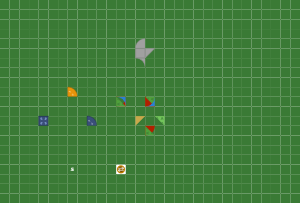
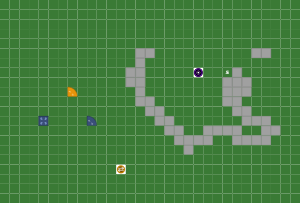
feat(physics): black hole tile — pulls nearby balls toward it on activation
One activation per player turn; dormant state with gray overlay until
next turn. Faint dashed radius ring drawn in-game. Debug panel exposes
impulse factor and radius sliders.

diff --git a/public/js/physics.js b/public/js/physics.js
@@ -168,6 +168,7 @@ const Physics = (function () {
     TELEPORTER_B: "|", // teleporter pair 2 (cyan)
     TELEPORTER_C: "/", // teleporter pair 3 (gold)
     SWAP: "?", // ball swaps position with a random opponent's ball and stops
+    BLACKHOLE: "Ū", // pulls nearby balls toward it on activation; one use per turn
     // One-way walls — diagonal (complement GHOST_R/L/U/D for 8-direction coverage)
     PHANTOM_UR: "-", // passes if ball moves up-right (vx>0 && vy<0)
     PHANTOM_UL: "!", // passes if ball moves up-left
@@ -183,6 +184,8 @@ const Physics = (function () {
   let BALL_FRICTION = 0.3; // ball-to-ball tangential friction (Coulomb μ)
   let BOUNCY_RESTITUTION = 1.5;
   let STICKY_RESTITUTION = 0.1;
+  let BH_IMPULSE_FACTOR = 0.75;
+  let BH_RADIUS_TILES = 10;
 
   const SAND_SET = new Set([
     TILE.SAND, TILE.SAND_UR, TILE.SAND_LL, TILE.SAND_UL, TILE.SAND_LR,
@@ -308,6 +311,7 @@ const Physics = (function () {
       startY = null;
     const holes = [];
     const tpByType = {};
+    const blackHoleTiles = [];
     const TP_CHARS = new Set([
       TILE.TELEPORTER,
       TILE.TELEPORTER_B,
@@ -334,6 +338,8 @@ const Physics = (function () {
             y: row * TILE_SIZE + TILE_SIZE / 2,
           };
           (tpByType[ch] = tpByType[ch] || []).push(tp);
+        } else if (ch === TILE.BLACKHOLE) {
+          blackHoleTiles.push({ col, row, dormant: false });
         }
       }
     }
@@ -357,6 +363,7 @@ const Physics = (function () {
       startY,
       holes,
       teleporterPairs,
+      blackHoleTiles,
     };
   }
 
@@ -376,6 +383,7 @@ const Physics = (function () {
       _tpOccupied: new Set(),
       _tpExitTile: null,
       _wasOnSwap: false,
+      _wasOnBlackHole: false,
     };
   }
 
@@ -1251,6 +1259,38 @@ const Physics = (function () {
     return false;
   }
 
+  // ── Black hole detection & impulse ───────────────────────────────────────
+
+  function checkBlackHole(ball, blackHoleTiles) {
+    const r2 = (TILE_SIZE / 2) ** 2;
+    for (const bh of blackHoleTiles) {
+      const cx = bh.col * TILE_SIZE + TILE_SIZE / 2;
+      const cy = bh.row * TILE_SIZE + TILE_SIZE / 2;
+      if ((ball.x - cx) ** 2 + (ball.y - cy) ** 2 < r2) return true;
+    }
+    return false;
+  }
+
+  function getActiveBlackHole(ball, blackHoleTiles) {
+    const r2 = (TILE_SIZE / 2) ** 2;
+    for (const bh of blackHoleTiles) {
+      if (bh.dormant) continue;
+      const cx = bh.col * TILE_SIZE + TILE_SIZE / 2;
+      const cy = bh.row * TILE_SIZE + TILE_SIZE / 2;
+      if ((ball.x - cx) ** 2 + (ball.y - cy) ** 2 < r2) return bh;
+    }
+    return null;
+  }
+
+  function applyBlackHoleImpulse(ball, bhX, bhY) {
+    const dx = bhX - ball.x, dy = bhY - ball.y;
+    const dist = Math.sqrt(dx * dx + dy * dy);
+    if (dist < 1) return;
+    const v = BH_IMPULSE_FACTOR * dist * (1 - FRICTION);
+    ball.vx += (dx / dist) * v;
+    ball.vy += (dy / dist) * v;
+  }
+
   // ── Tile helpers ──────────────────────────────────────────────────────────
 
   function getTile(tiles, col, row) {
@@ -1426,6 +1466,18 @@ const Physics = (function () {
     set HOLE_GRAVITY_FORCE(v) {
       HOLE_GRAVITY_FORCE = v;
     },
+    get BH_IMPULSE_FACTOR() {
+      return BH_IMPULSE_FACTOR;
+    },
+    set BH_IMPULSE_FACTOR(v) {
+      BH_IMPULSE_FACTOR = v;
+    },
+    get BH_RADIUS_TILES() {
+      return BH_RADIUS_TILES;
+    },
+    set BH_RADIUS_TILES(v) {
+      BH_RADIUS_TILES = v;
+    },
     TILE_SIZE,
     POWER_EXP,
     TILE,
@@ -1454,6 +1506,9 @@ const Physics = (function () {
     isOnTeleporter,
     checkTeleporter,
     checkSwap,
+    checkBlackHole,
+    getActiveBlackHole,
+    applyBlackHoleImpulse,
     getTile,
     tileAt,
     getSurfaceAt,

diff --git a/public/js/main.js b/public/js/main.js
@@ -54,6 +54,8 @@
       { id: 'sl-sticky',    val: 'val-sticky',    prop: 'STICKY_RESTITUTION', fmt: v => v.toFixed(2) },
       { id: 'sl-slope',     val: 'val-slope',     prop: 'SLOPE_FORCE',        fmt: v => v.toFixed(3) },
       { id: 'sl-slope-rf',  val: 'val-slope-rf',  prop: 'SLOPE_ROLL_FRICTION',fmt: v => v.toFixed(4) },
+      { id: 'sl-bh-impulse',val: 'val-bh-impulse',prop: 'BH_IMPULSE_FACTOR',  fmt: v => v.toFixed(2) },
+      { id: 'sl-bh-radius', val: 'val-bh-radius', prop: 'BH_RADIUS_TILES',    fmt: v => v.toFixed(0) },
     ];
     sliders.forEach(({ id, val, prop, fmt }) => {
       const input = document.getElementById(id);
@@ -305,6 +307,7 @@
       if (!game) return;
       waitingForTurnSwitch = false;
       game.map.teleporterPairs.forEach(pair => { pair.uses = 0; });
+      game.map.blackHoleTiles.forEach(bh => { bh.dormant = false; });
       game.currentPlayerIndex = currentPlayerIndex;
       game.players[currentPlayerIndex].started = true;
       game.turnActive = false;
@@ -547,6 +550,22 @@ document.addEventListener('mousemove', onMouseMove);
         }
       }
 
+      // Black hole — pull nearby opponents toward it; one activation per turn
+      if (!turnEnded && !ball._wasOnBlackHole) {
+        const bh = Physics.getActiveBlackHole(ball, game.map.blackHoleTiles);
+        if (bh) {
+          bh.dormant = true;
+          const bhX = bh.col * Physics.TILE_SIZE + Physics.TILE_SIZE / 2;
+          const bhY = bh.row * Physics.TILE_SIZE + Physics.TILE_SIZE / 2;
+          const pullR2 = (Physics.TILE_SIZE * Physics.BH_RADIUS_TILES) ** 2;
+          game.players.forEach((p, i) => {
+            if (i === game.currentPlayerIndex || p.sunk || p.eliminated) return;
+            const dx = bhX - p.ball.x, dy = bhY - p.ball.y;
+            if (dx * dx + dy * dy <= pullR2) Physics.applyBlackHoleImpulse(p.ball, bhX, bhY);
+          });
+        }
+      }
+
       // Hole — sink ball
       if (!turnEnded) {
         const hole = Physics.checkHole(ball, game.map.holes);
@@ -589,6 +608,21 @@ document.addEventListener('mousemove', onMouseMove);
           target.ball.vx = p.ball.vx; target.ball.vy = p.ball.vy;
           target.ball._wasOnSwap = true;
           p.ball.vx = 0; p.ball.vy = 0;
+          nonCurStateChanged = true;
+        }
+      }
+      if (Physics.isMoving(p.ball) && !p.ball._wasOnBlackHole) {
+        const bh2 = Physics.getActiveBlackHole(p.ball, game.map.blackHoleTiles);
+        if (bh2) {
+          bh2.dormant = true;
+          const bhX = bh2.col * Physics.TILE_SIZE + Physics.TILE_SIZE / 2;
+          const bhY = bh2.row * Physics.TILE_SIZE + Physics.TILE_SIZE / 2;
+          const pullR2 = (Physics.TILE_SIZE * Physics.BH_RADIUS_TILES) ** 2;
+          game.players.forEach((tp, ti) => {
+            if (ti === i || tp.sunk || tp.eliminated) return;
+            const dx = bhX - tp.ball.x, dy = bhY - tp.ball.y;
+            if (dx * dx + dy * dy <= pullR2) Physics.applyBlackHoleImpulse(tp.ball, bhX, bhY);
+          });
           nonCurStateChanged = true;
         }
       }
@@ -650,6 +684,7 @@ document.addEventListener('mousemove', onMouseMove);
       if (!p.sunk && !p.eliminated) {
         p.ball._tpOccupied = Physics.isOnTeleporter(p.ball, game.map.ground);
         p.ball._wasOnSwap = Physics.checkSwap(p.ball, game.map.ground);
+        p.ball._wasOnBlackHole = Physics.checkBlackHole(p.ball, game.map.blackHoleTiles);
         if (p.ball._tpExitTile) {
           const [ec, er] = p.ball._tpExitTile.split(',').map(Number);
           if (Math.floor(p.ball.x / Physics.TILE_SIZE) !== ec ||

diff --git a/public/js/renderer.js b/public/js/renderer.js
@@ -196,6 +196,26 @@ const Renderer = (function () {
         }
       }
     }
+    if (map.blackHoleTiles) {
+      ctx.fillStyle = "rgba(80,80,80,0.65)";
+      for (const bh of map.blackHoleTiles) {
+        if (!bh.dormant) continue;
+        ctx.beginPath();
+        ctx.arc(bh.col * T + T / 2, bh.row * T + T / 2, T / 2 - 1, 0, Math.PI * 2);
+        ctx.fill();
+      }
+      ctx.strokeStyle = "rgba(170,80,255,0.45)";
+      ctx.lineWidth = 1.5;
+      ctx.setLineDash([6, 5]);
+      for (const bh of map.blackHoleTiles) {
+        if (bh.dormant) continue;
+        const r = Physics.BH_RADIUS_TILES * T;
+        ctx.beginPath();
+        ctx.arc(bh.col * T + T / 2, bh.row * T + T / 2, r, 0, Math.PI * 2);
+        ctx.stroke();
+      }
+      ctx.setLineDash([]);
+    }
   }
 
   // ── Ground tile ───────────────────────────────────────────────────────────
@@ -235,6 +255,19 @@ const Renderer = (function () {
       ctx.moveTo(cx + hw, cy + hs); ctx.lineTo(cx - hw, cy + hs);
       ctx.moveTo(cx - hw + 4, cy + hs - 3); ctx.lineTo(cx - hw, cy + hs); ctx.lineTo(cx - hw + 4, cy + hs + 3);
       ctx.stroke();
+      return;
+    }
+
+    if (tile === Physics.TILE.BLACKHOLE) {
+      const cx = x + T / 2, cy = y + T / 2;
+      ctx.fillStyle = "#000";
+      ctx.beginPath(); ctx.arc(cx, cy, T / 2 - 1, 0, Math.PI * 2); ctx.fill();
+      ctx.strokeStyle = "#7000cc"; ctx.lineWidth = 2;
+      ctx.beginPath(); ctx.arc(cx, cy, T / 2 - 3, 0, Math.PI * 2); ctx.stroke();
+      ctx.strokeStyle = "#aa50ff"; ctx.lineWidth = 1;
+      ctx.beginPath(); ctx.arc(cx, cy, T * 0.18, 0, Math.PI * 2); ctx.stroke();
+      ctx.fillStyle = "#fff";
+      ctx.beginPath(); ctx.arc(cx, cy, 2, 0, Math.PI * 2); ctx.fill();
       return;
     }
 

diff --git a/public/index.html b/public/index.html
@@ -247,6 +247,32 @@
           />
         </label>
       </div>
+
+      <div class="debug-section">
+        <div class="debug-section-title">Black Hole</div>
+        <label
+          >Impulse <span id="val-bh-impulse">0.75</span>
+          <input
+            type="range"
+            id="sl-bh-impulse"
+            min="0.1"
+            max="2.0"
+            step="0.05"
+            value="0.75"
+          />
+        </label>
+        <label
+          >Radius (tiles) <span id="val-bh-radius">10</span>
+          <input
+            type="range"
+            id="sl-bh-radius"
+            min="1"
+            max="30"
+            step="1"
+            value="10"
+          />
+        </label>
+      </div>
     </div>
 
     <script src="/socket.io/socket.io.js"></script>

diff --git a/editor/editor.html b/editor/editor.html
@@ -1140,6 +1140,20 @@
         };
       }
 
+      function blackHole() {
+        return (ctx, x, y) => {
+          const cx = x + T / 2, cy = y + T / 2;
+          ctx.fillStyle = "#000";
+          ctx.beginPath(); ctx.arc(cx, cy, T / 2 - 1, 0, Math.PI * 2); ctx.fill();
+          ctx.strokeStyle = "#7000cc"; ctx.lineWidth = 2;
+          ctx.beginPath(); ctx.arc(cx, cy, T / 2 - 3, 0, Math.PI * 2); ctx.stroke();
+          ctx.strokeStyle = "#aa50ff"; ctx.lineWidth = 1;
+          ctx.beginPath(); ctx.arc(cx, cy, T * 0.18, 0, Math.PI * 2); ctx.stroke();
+          ctx.fillStyle = "#fff";
+          ctx.beginPath(); ctx.arc(cx, cy, 2, 0, Math.PI * 2); ctx.fill();
+        };
+      }
+
       function diagWall(fw, face = WL, edge = WL_E, showChev = false) {
         return (ctx, x, y) => {
           ctx.fillStyle = face;
@@ -1869,6 +1883,7 @@
           d: teleporter("#1a1000", "#b87010", "#ffe050"),
         },
         { c: "?", l: "Swap", g: "Special", sg: "", d: swap() },
+        { c: "Ū", l: "Black Hole", g: "Special", sg: "", d: blackHole() },
         // Lava
         { c: "w", l: "Lava", g: "Lava", sg: "", d: lava() },
         { c: "'", l: "Lava ↗", g: "Lava", sg: "diag", d: lavaDiag("LL") },

diff --git a/public/js/game.js b/public/js/game.js
@@ -49,6 +49,7 @@ const Game = (function () {
 
   function _advanceToNextActive(game) {
     game.map.teleporterPairs.forEach(pair => { pair.uses = 0; });
+    game.map.blackHoleTiles.forEach(bh => { bh.dormant = false; });
     game.players.forEach(p => {
       if (p.waterPending && p.waterRespawnPos) {
         p.ball.x = p.waterRespawnPos.x; p.ball.y = p.waterRespawnPos.y;